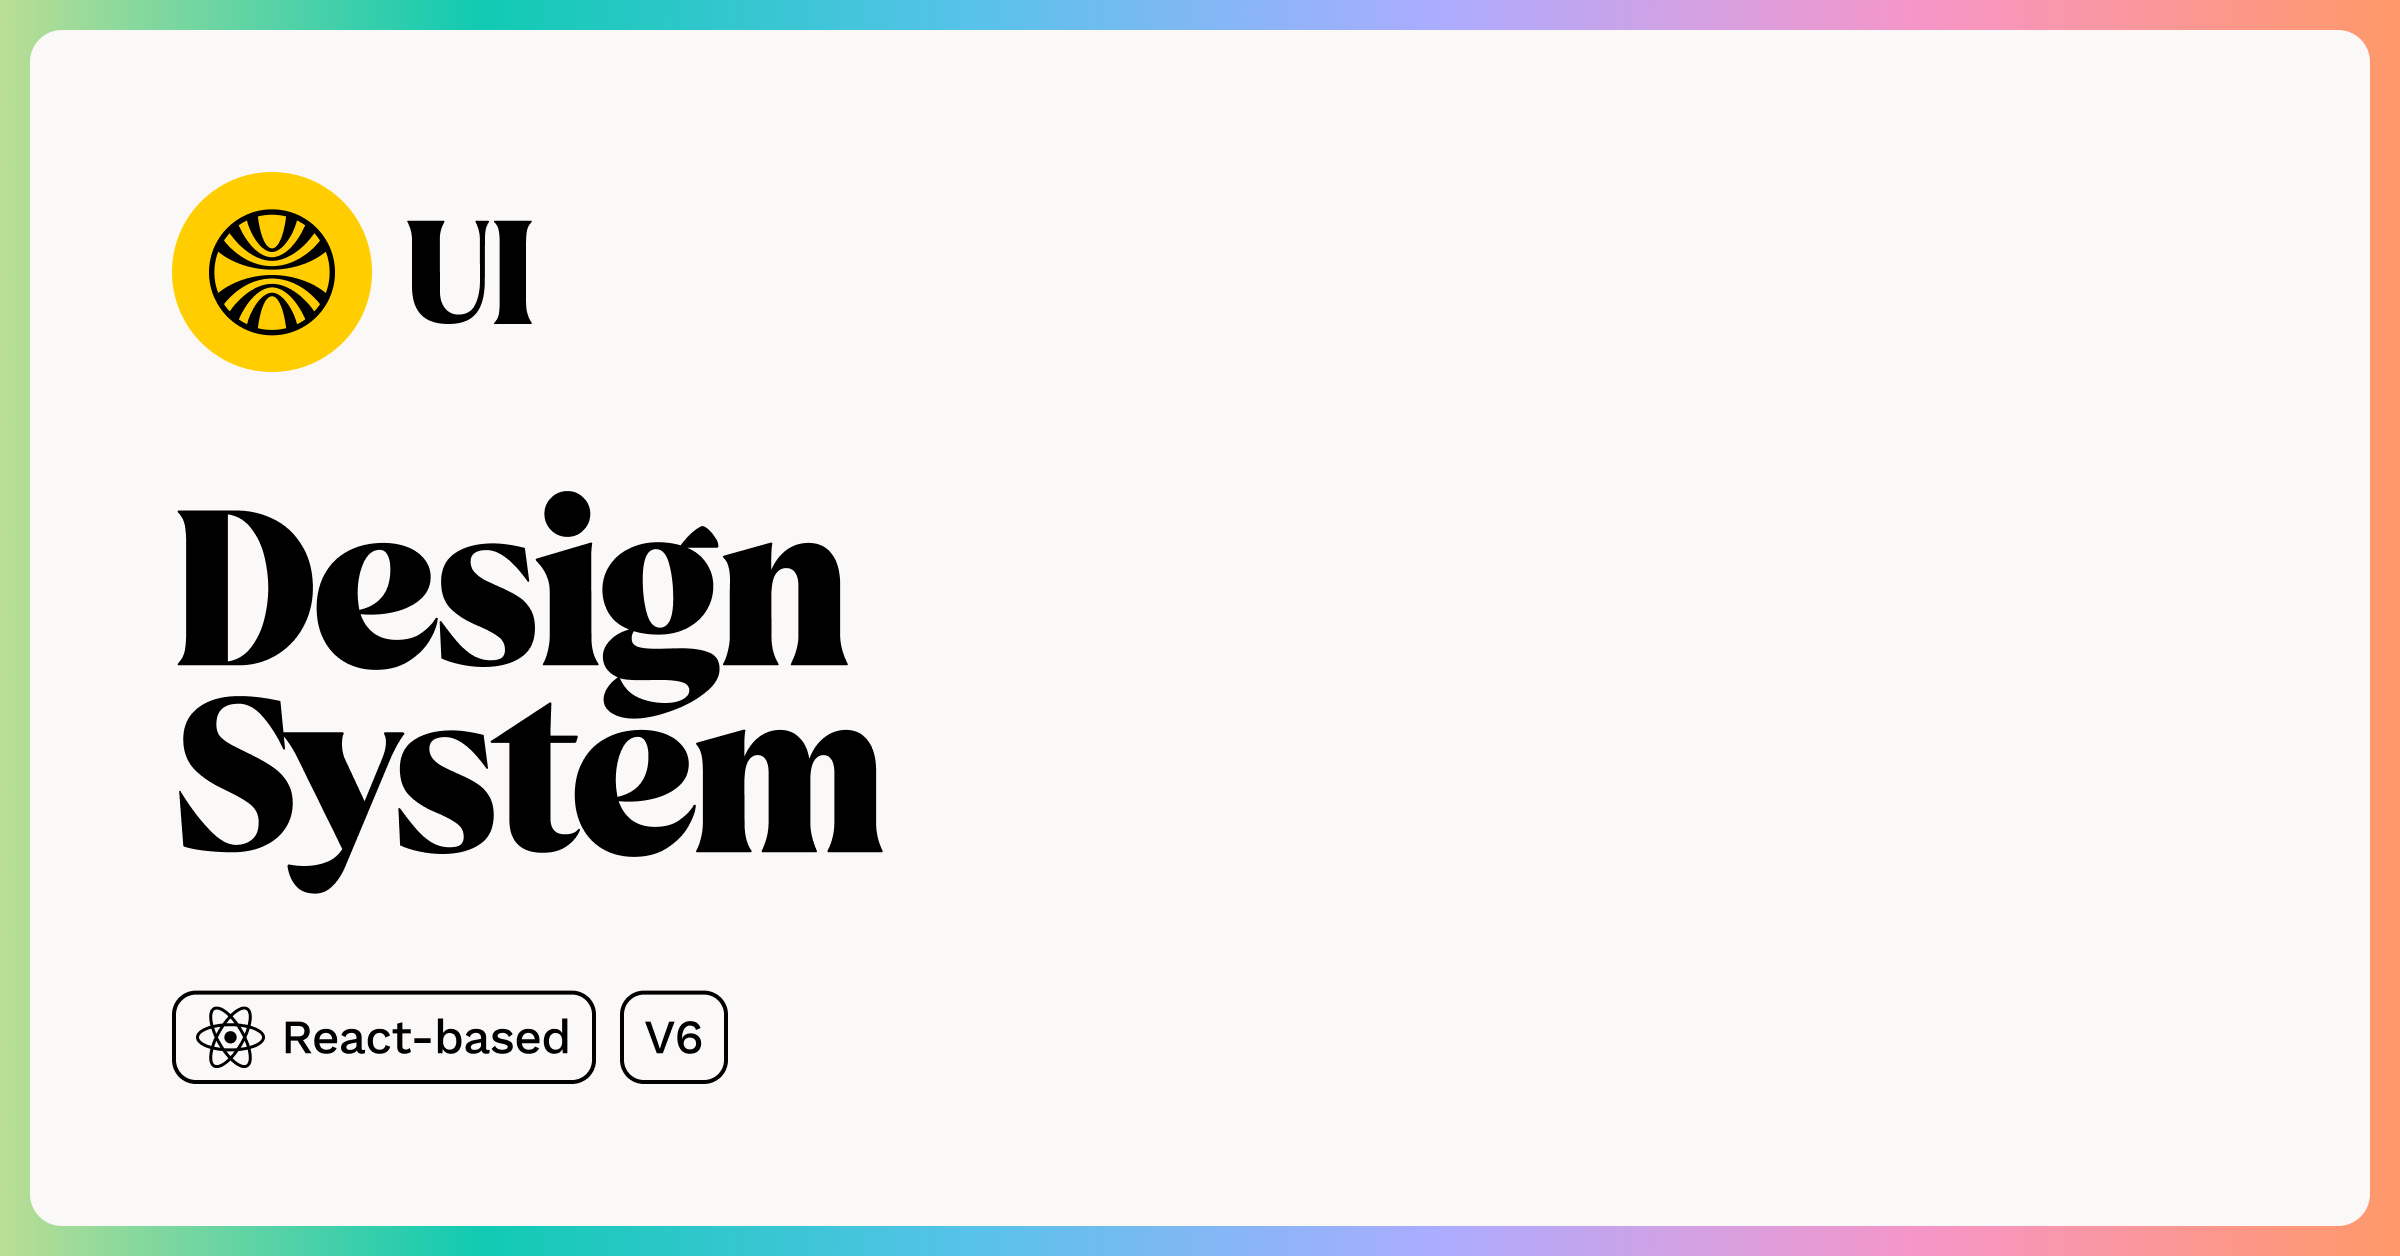
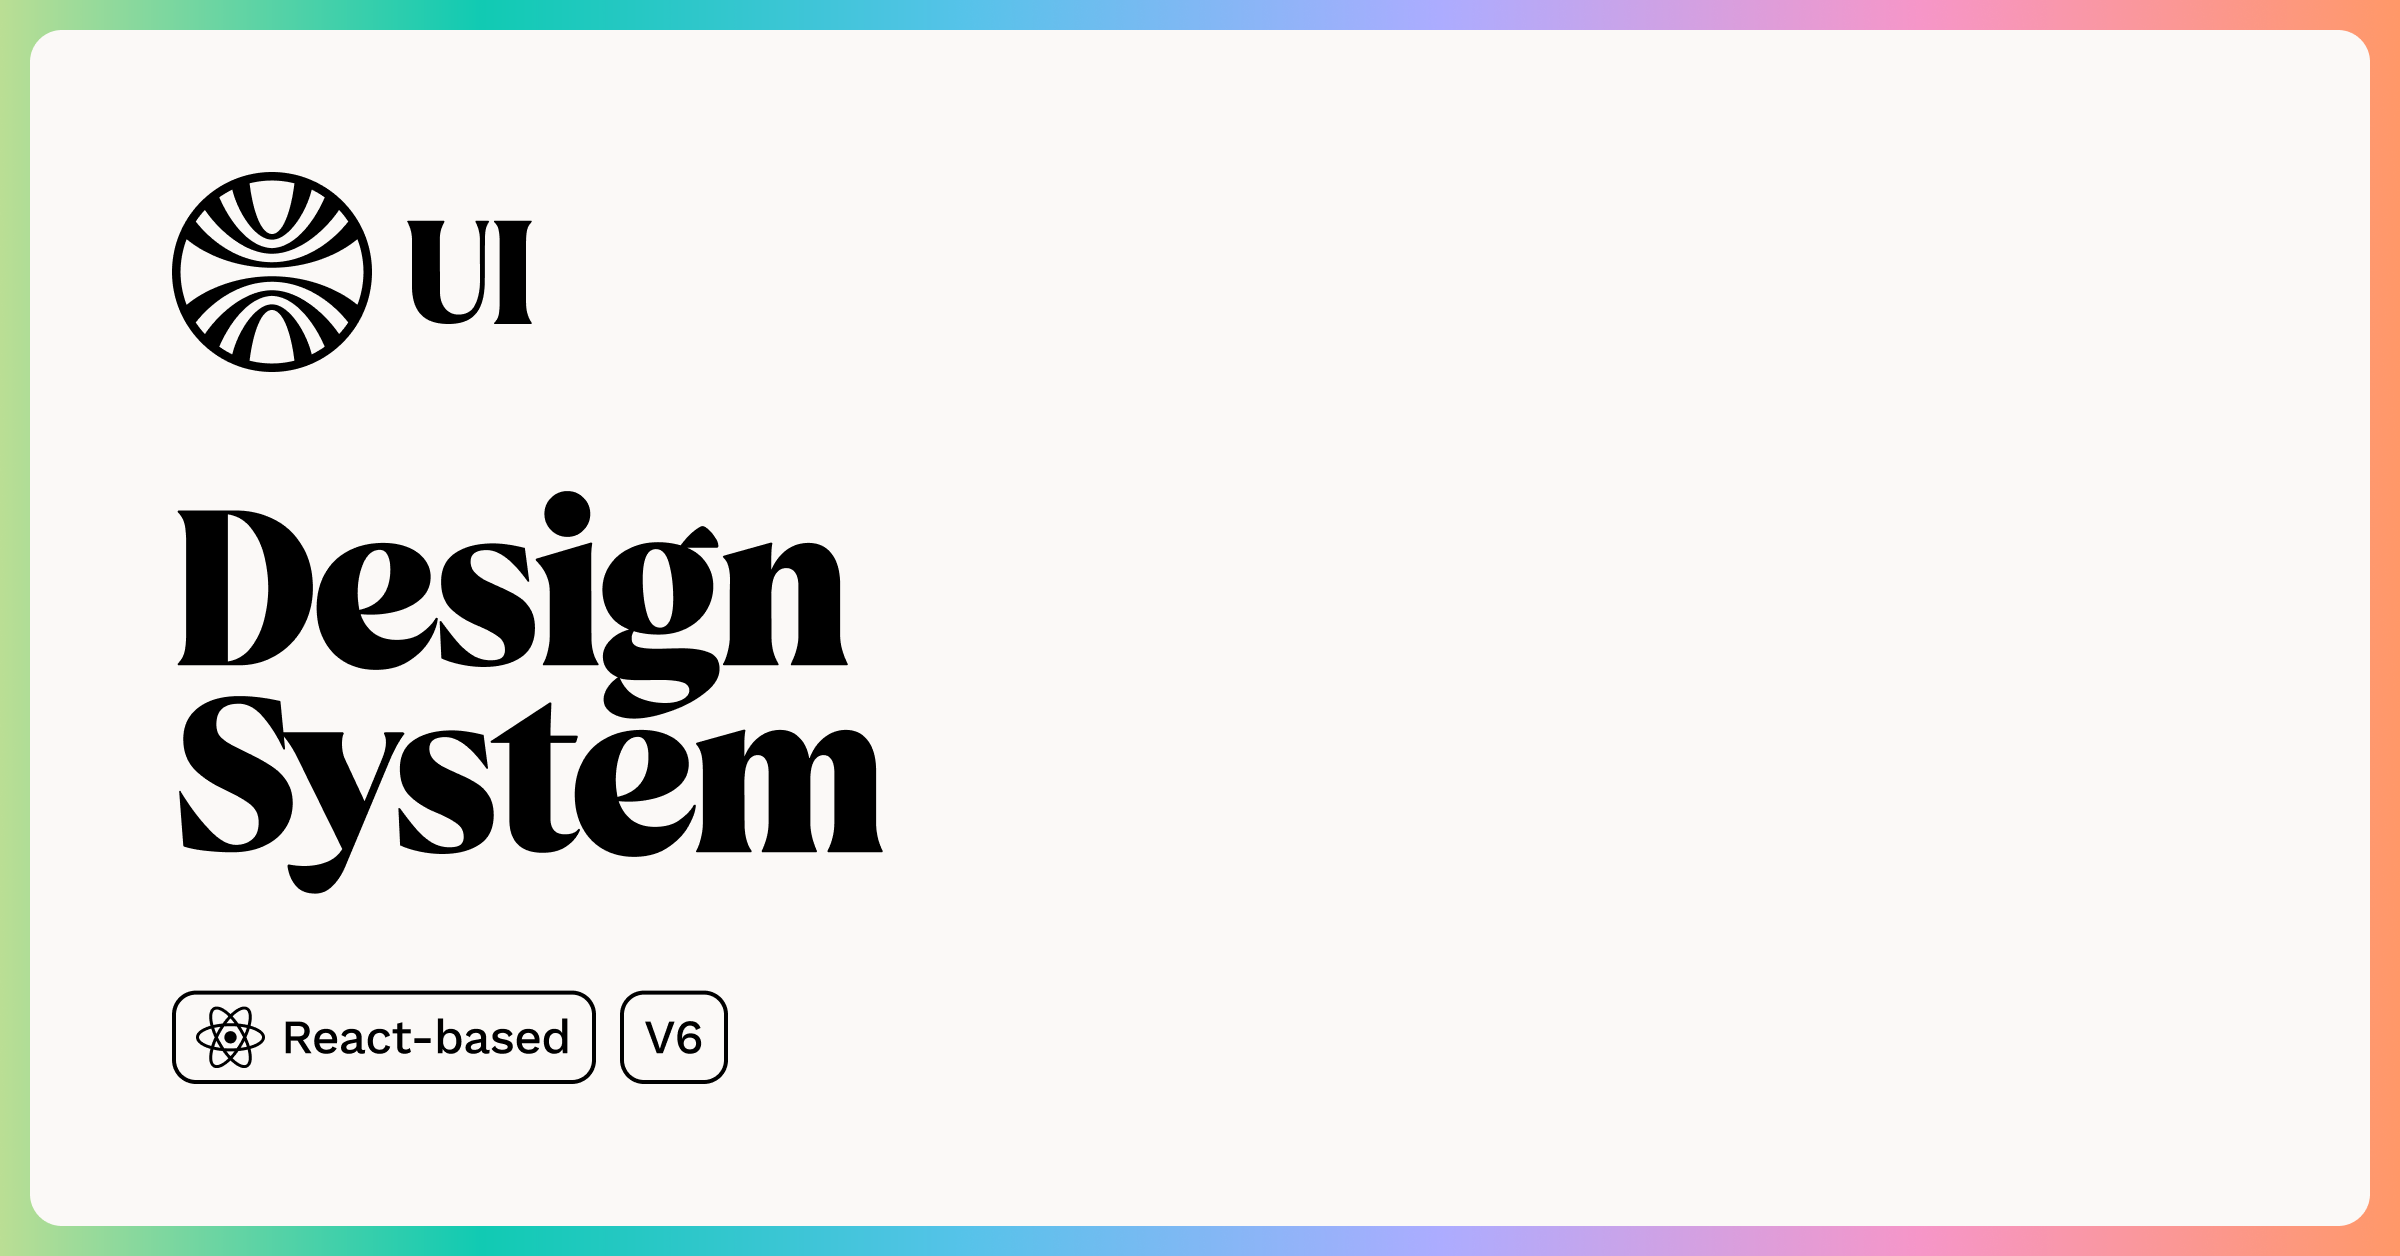
docs: add custom title per page

Changed region(s): [[0.0625, 0.1242, 0.1562, 0.3105]]

diff --git a/website/app/foundations/[id]/page.tsx b/website/app/foundations/[id]/page.tsx
@@ -5,10 +5,20 @@ import { TableOfContent } from '@/build-app/components/TableOfContent'
 import { getPageContent } from '@/build-app/utils/page-content'
 import { getPages, getStaticParams } from '@/build-app/utils/pages-exports'
 import { PrevNextPage } from '@/build-app/components/PrevNextPage'
+import { getName } from '@/build-app/utils/transform-name'
 
 type PageProps = {
   params: {
     id: string
+  }
+}
+
+export async function generateMetadata({ params }: { params: { [key: string]: string } }) {
+  const { id } = params
+  const title = getName(id)
+
+  return {
+    title: `Welcome UI - ${title}`,
   }
 }
 

diff --git a/website/app/components/page.tsx b/website/app/components/page.tsx
@@ -4,10 +4,15 @@ import { Flex } from '@welcome-ui/flex'
 import { Grid } from '@welcome-ui/grid'
 import { Text } from '@welcome-ui/text'
 import { Box } from '@welcome-ui/box'
+import { Metadata } from 'next'
 
 import { getPages } from '@/build-app/utils/pages-components'
 import { getName, getRepository } from '@/build-app/utils/transform-name'
 import { getPageContent } from '@/build-app/utils/page-content'
+
+export const metadata: Metadata = {
+  title: 'Welcome UI - Components',
+}
 
 const Page = () => {
   const pages = getPages()

diff --git a/website/app/components/[id]/layout.tsx b/website/app/components/[id]/layout.tsx
@@ -19,6 +19,18 @@ type LayoutProps = {
   }
 }
 
+export async function generateMetadata({ params }: { params: { [key: string]: string } }) {
+  const { id } = params
+  const { data } = getPageContent(`${getRepository(id)}/docs/index.mdx`, true)
+  const title = data?.title
+  const description = data?.description
+
+  return {
+    title: `Welcome UI - ${title}`,
+    description: description,
+  }
+}
+
 const Layout = ({ children, params }: LayoutProps) => {
   const pages = getPages()
   const { id } = params

diff --git a/website/app/layout.tsx b/website/app/layout.tsx
@@ -29,7 +29,7 @@ const RootLayout = ({ children }: { children: React.ReactNode }) => {
   return (
     <html lang="en">
       <head>
-        <link href="/favicon.ico" rel="icon" type="image/x-icon" />
+        <link href="/favicon.png" rel="icon" type="image/png" />
       </head>
       <body>
         <StyledComponentsRegistry>
